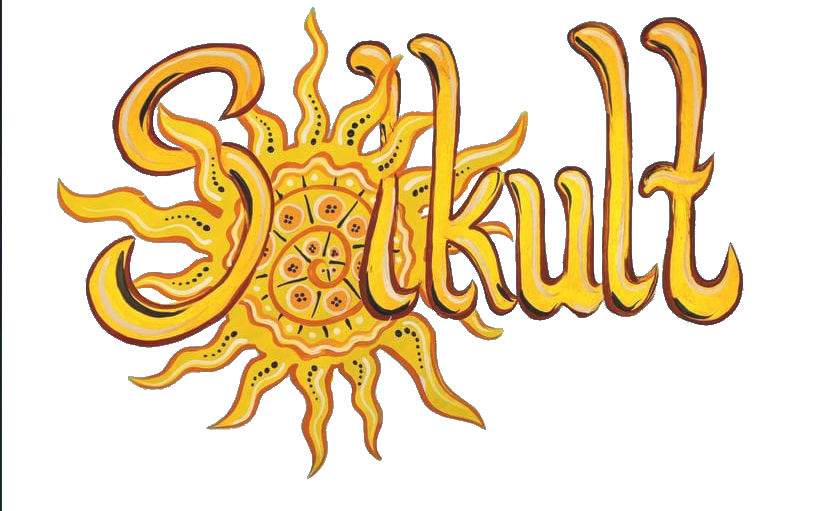
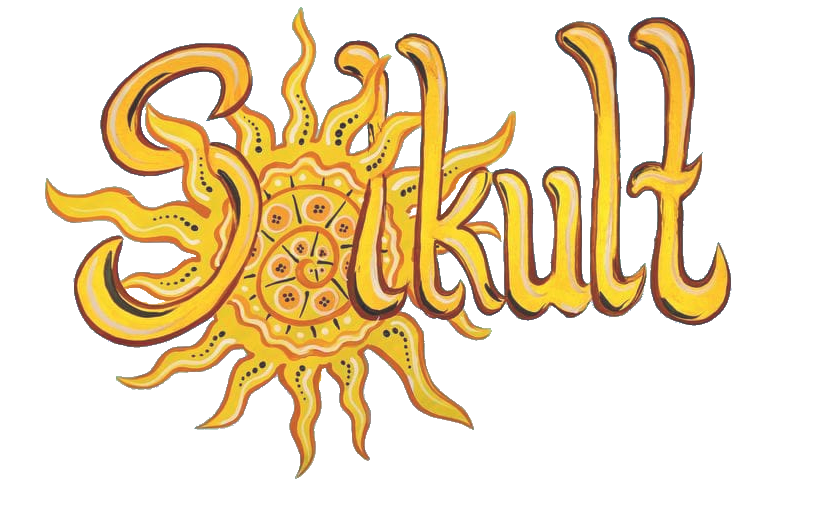
some color and img

Changed region(s): [[0.0308, 0.0, 0.9225, 0.9393]]

diff --git a/index.html b/index.html
@@ -8,8 +8,8 @@
     <title>Volunteer Sign Up</title>
 </head>
 <body>
-    <main>
-        <form>
+    <main class="background">
+        <form class="form">
             <h1>Volunteer Application</h1>
             <h2>Fill out this form and we will get back to you asap!</h2>
             
@@ -33,6 +33,10 @@
             <label for="message">Anything else? Allergies, Questions, etc.</label>
             <input type="text" name="message" id="message">
         </form>
+        <section class="img">
+            <img class="scene" src="images/solkultscen.jpg" alt="festival scene" width="300px">
+            <img class="logo" src="images/solkultlogga.png" alt="festival logo" width="270px">
+        </section>
     </main>
     
 </body>

diff --git a/styles/styles.css b/styles/styles.css
@@ -1,0 +1,36 @@
+.background {
+    display: flex;
+    justify-content: center;
+    align-items: center;
+    background-color: rgb(180, 224, 180);
+    height: 100vh;
+}
+
+.form {
+    display: flex;
+    flex-direction: column;
+    width: 340px;
+    height: 60%;
+    background-color:aquamarine;
+    border-radius: 6px 0 0 6px;
+    
+
+}
+
+.img {
+    position: relative;
+    height: 60%;
+}
+
+.scene {
+    height: 100%;
+    border-radius: 0 6px 6px 0;
+
+}
+
+.logo {
+    position: absolute;
+    left: 8%;
+    top: 2%;
+    transform:scale(1.1);
+}
